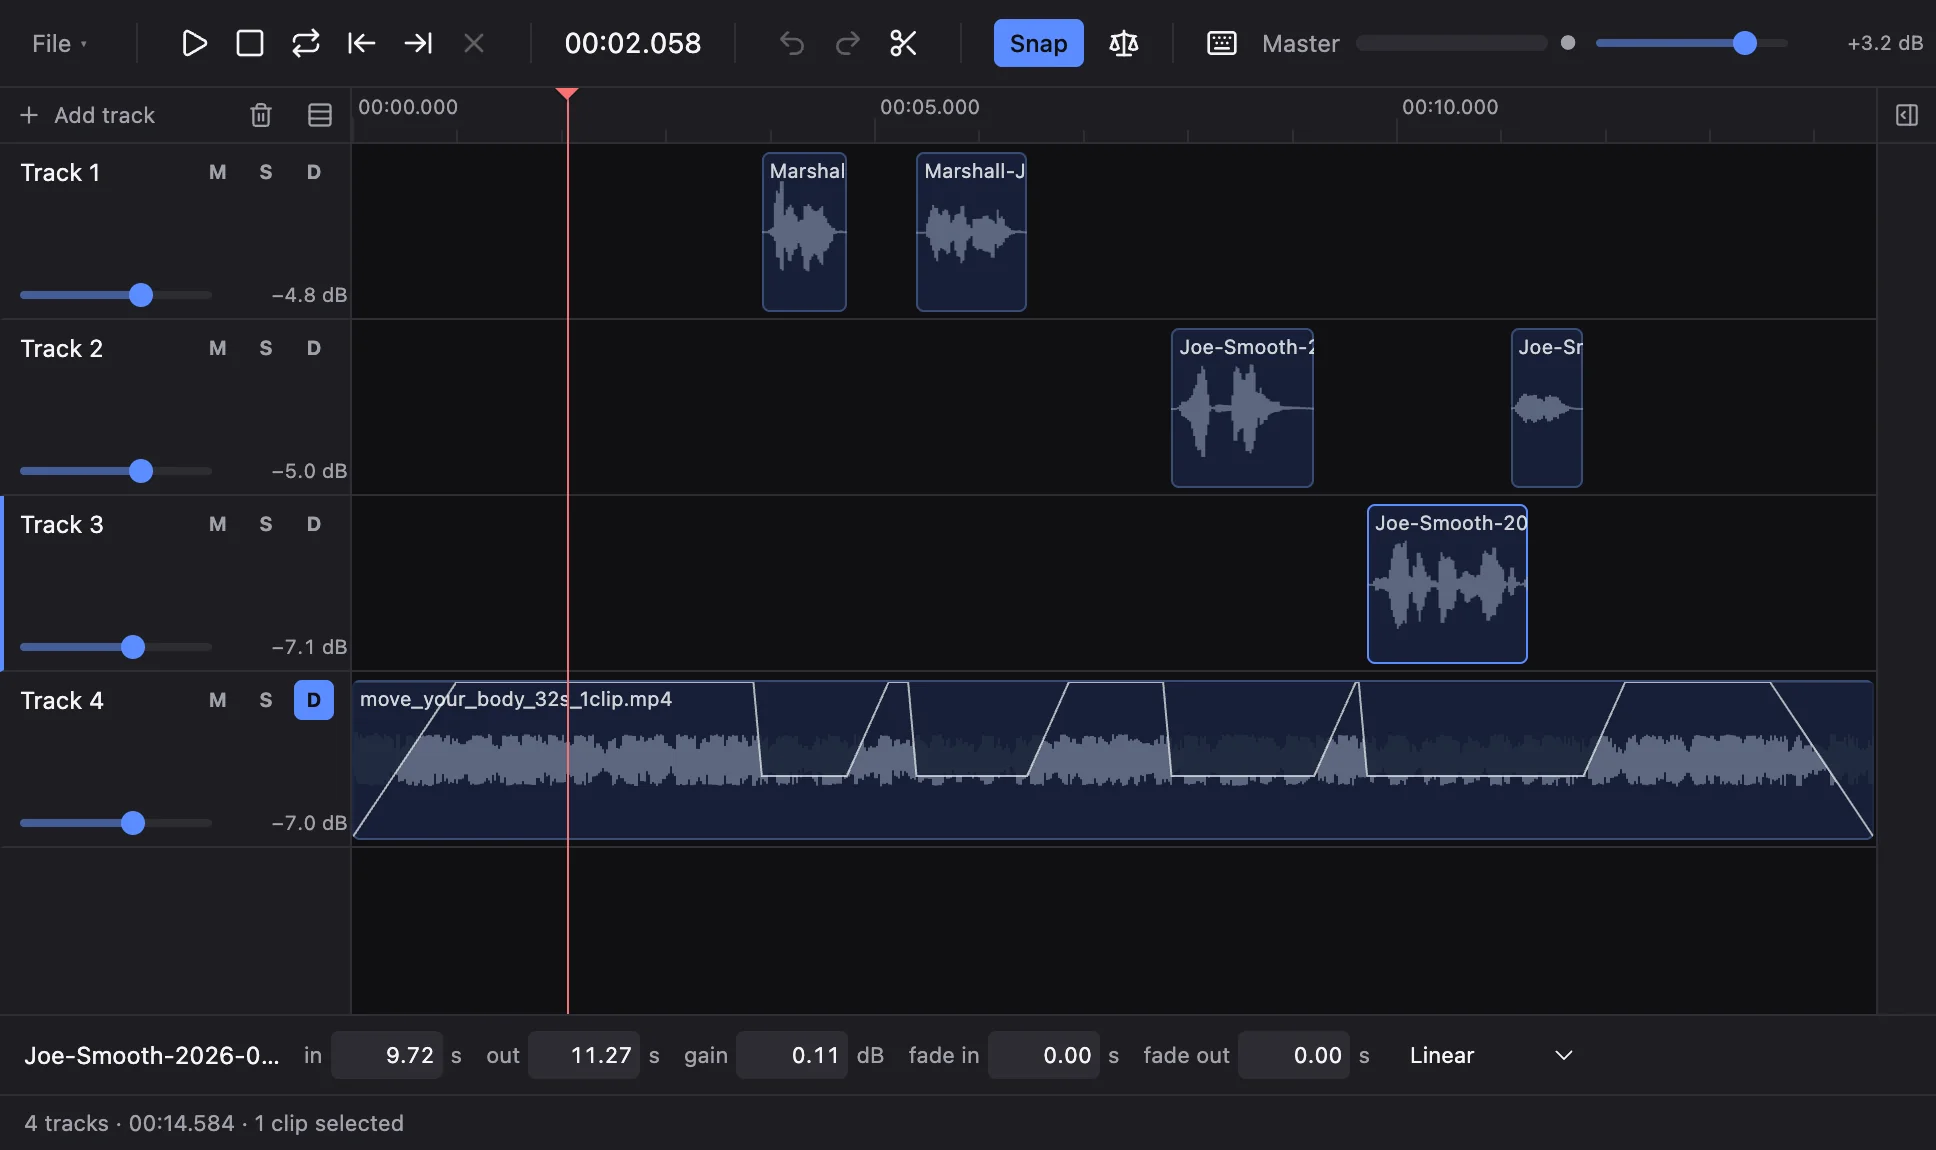
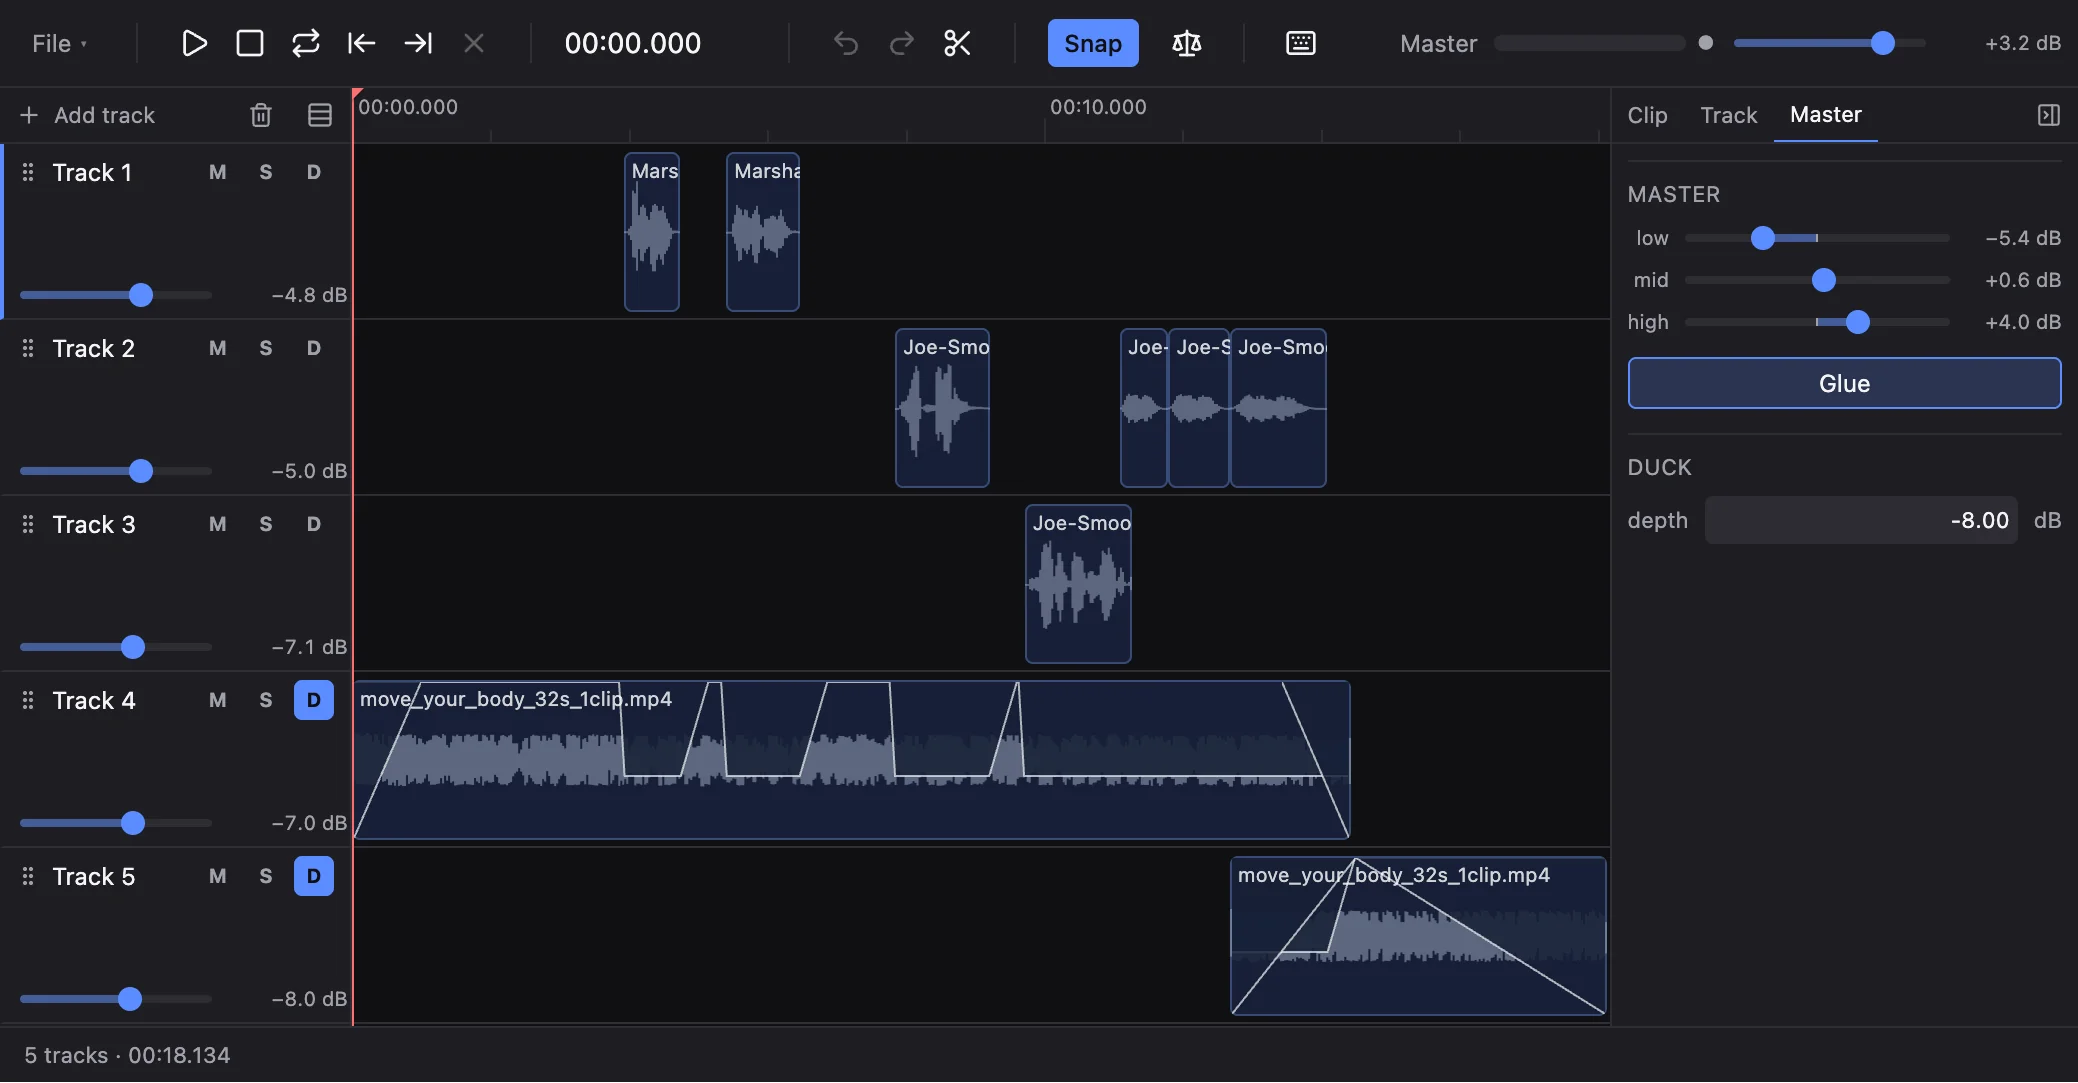
Update the README screenshot
Shows the current app: five tracks with ducking envelopes drawn on the
beds, the reorder grips in the track headers, and the side panel on its
Master tab with EQ, Glue and duck depth.

Same treatment as before - WebP at q85, full resolution, no downscale:
207 KB PNG to 54 KB at 2078x1083. Alt text updated to describe what the
new image actually shows.

Claude-Session: https://claude.ai/code/session_01378b9ESxbigF8v7gHaz2j9

diff --git a/README.md b/README.md
@@ -9,7 +9,7 @@ under the voice, and export a mastered file — all locally, with no upload and 
 
 **→ [slop-audio-editor.meigo.workers.dev](https://slop-audio-editor.meigo.workers.dev)**
 
-![Slop Audio Editor — four tracks with waveforms, a ducked music bed, and the clip inspector](docs/screenshot.webp)
+![Slop Audio Editor — five tracks of waveforms with ducking envelopes drawn on the music beds, and the master EQ, Glue and duck depth in the side panel](docs/screenshot.webp)
 
 **Stack:** Svelte 5 (runes) + TypeScript + Vite + Tailwind 4, on the Web Audio API.
 
